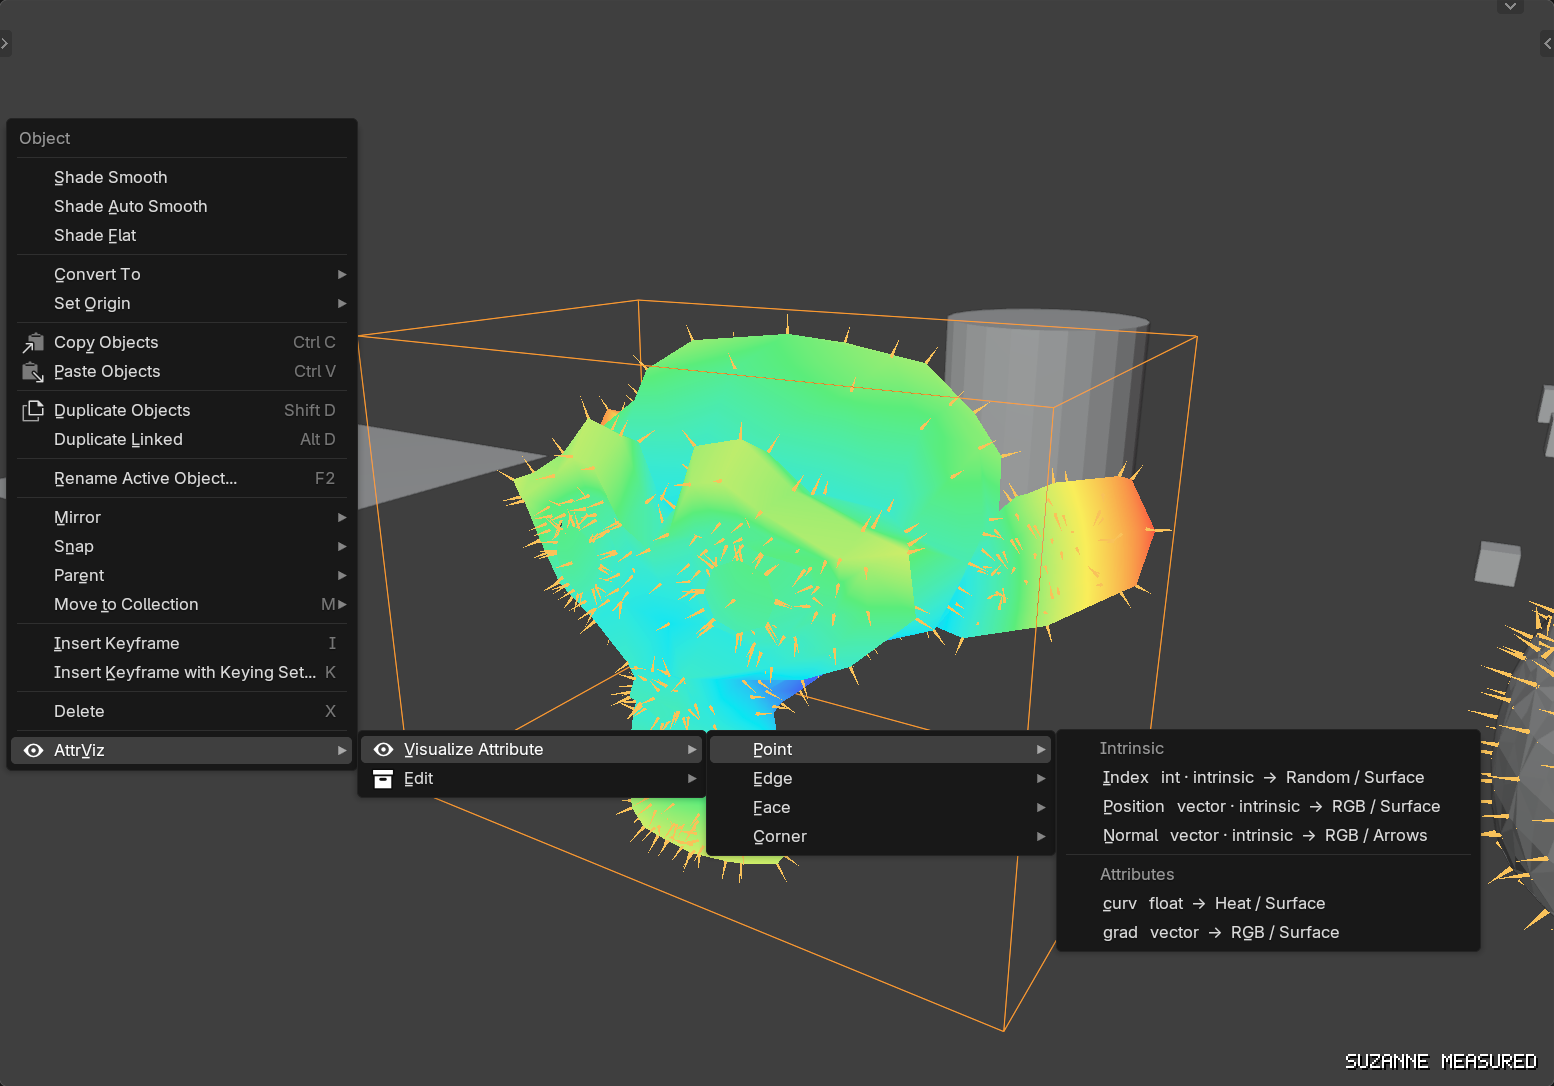
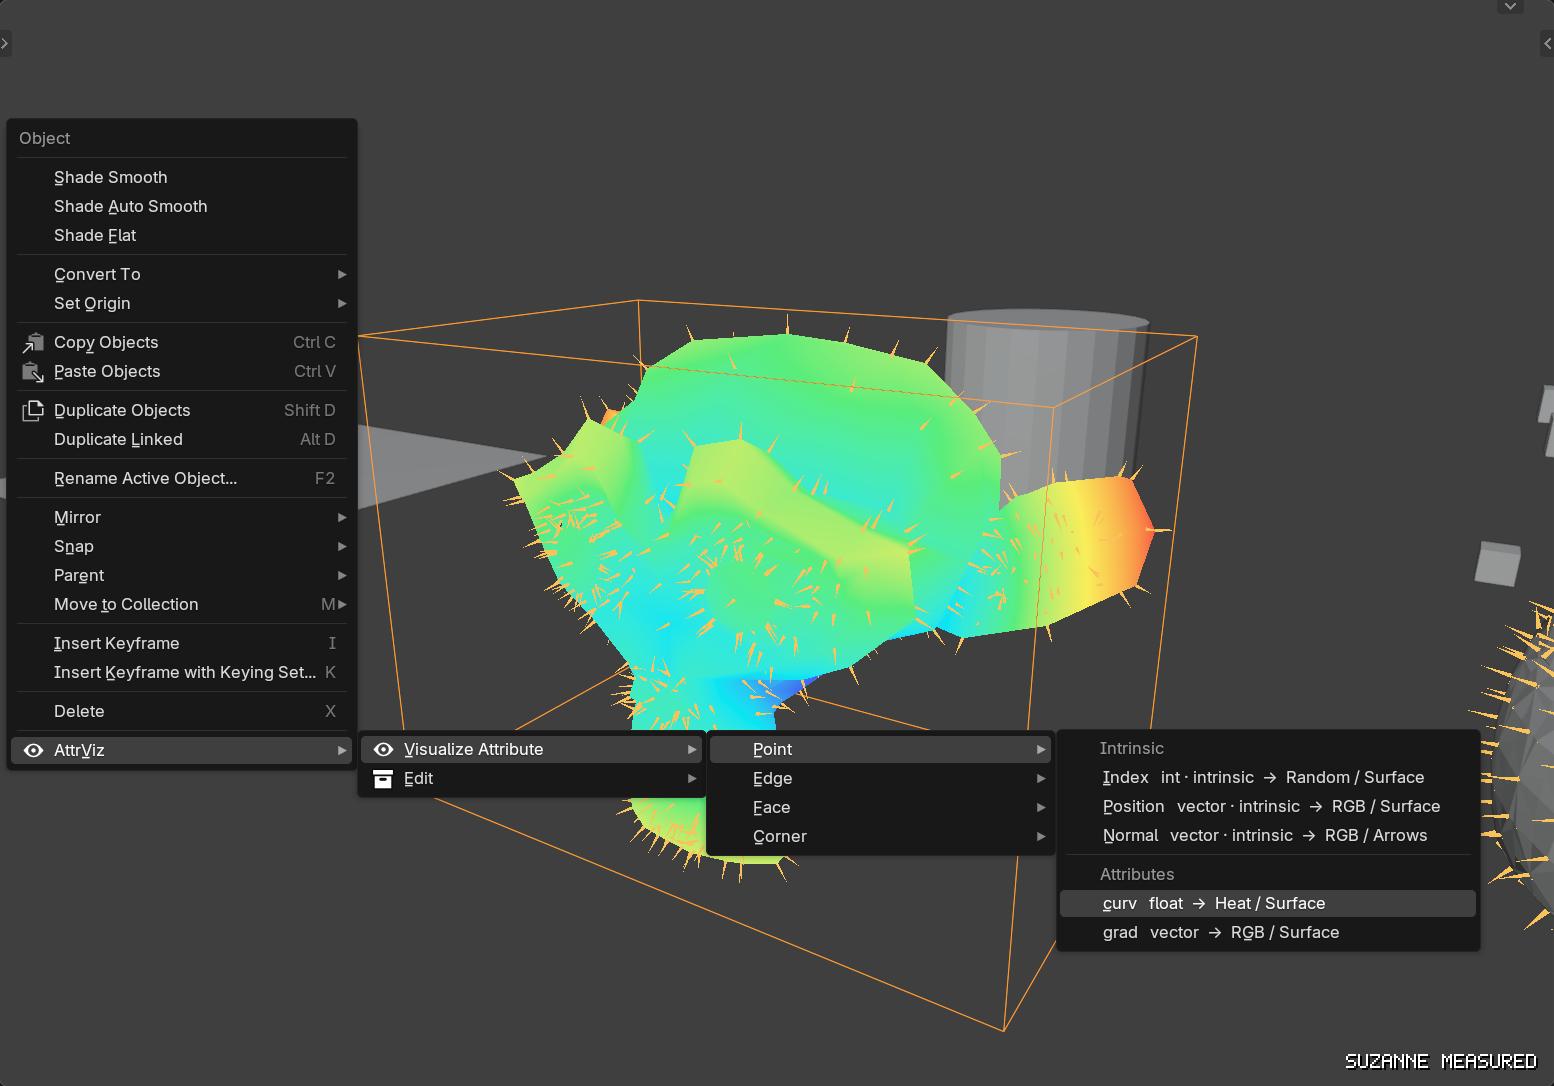
@ feat(015): walk the menu to the attribute, and capture the result
The breadcrumb stopped on the domain category, so it showed the menu
OFFERING attributes and never showed anyone choosing one. It now walks
one rung further, onto `curv` itself.

Two mechanics that needed:

  * rows selected from the BOTTOM. The attribute list is not uniform
    rows — "Intrinsic" and "Attributes" section labels sit between the
    entries — so a top-relative index lands on a header. curv and grad
    are the last two entries, so -2 and -1 stay correct however many
    intrinsics appear above them.
  * a leaf rung needs its own proof. Every other rung is verified by "a
    submenu appeared to the right"; an attribute row opens nothing.
    verify_leaf requires the highlight to move inside that menu own
    rect, otherwise a failed last rung silently reproduces the old
    picture.

Adds viewport_result: the viewport and the sidebar in ONE frame, with
the visualizer the click just created, expanded. Every other figure
shows one surface with the other cropped away, so none of them showed
the tool in use. The pair validates itself — the menu row reads
"curv float -> Heat / Surface" and the panel shows exactly that.

The result shot DELETES the other visualizers rather than disabling
them: a panel listing four greyed-out visualizers in scopes the staging
emptied describes a scene nobody has. And it carries no burnt-in
caption, because the panel states curv - Point - Surface itself.

Guidance and mock updated with the throughline. 18 scenarios, 14 gated,
[…]

Changed region(s): [[0.6795, 0.8204, 0.9575, 0.8508]]

diff --git a/dev_tasks/015_docs_capture/scenarios.py b/dev_tasks/015_docs_capture/scenarios.py
@@ -39,7 +39,7 @@ PANEL_TICKS = {"warmup": 16, "reveal": 17, "shot": 27}
 # difference between "works alone" and "works in a batch".
 HOVER_WARMUP = 44
 WALK_TICKS = {"warmup": HOVER_WARMUP, "open": HOVER_WARMUP + 1,
-              "nudges": (), "shot": HOVER_WARMUP + 72}
+              "nudges": (), "shot": HOVER_WARMUP + 96}
 HOVER_TICKS = {"warmup": HOVER_WARMUP, "open": HOVER_WARMUP + 1,
                "nudges": (), "shot": HOVER_WARMUP + 24}
 # No menu to open; the settle loop decides when the overlay has finished.
@@ -353,6 +353,58 @@ def assert_batch_spread(ctx):
     return {"carriers": carriers, "non_carriers": bare}
 
 
+def stage_result(ctx):
+    """What the click in menu_breadcrumb produced.
+
+    The viewport and the panel in ONE frame: every other figure shows one
+    surface with the other cropped away, so none of them shows the tool
+    actually in use.
+    """
+    import attrviz as av
+    # Region overlap floats the sidebar OVER the viewport, which would leave
+    # Suzanne half-hidden behind it. Off, the two share the area.
+    bpy.context.preferences.system.use_region_overlap = False
+    out = _solo_suzanne()
+    # Delete the other visualizers rather than just disabling them. This shot
+    # is the state right after ONE click, and a panel listing four greyed-out
+    # visualizers in scopes the staging emptied ("0 obj / 1 viz") describes a
+    # scene nobody has.
+    keep = "VIZ_curv_surface"
+    for obj in [o for o in bpy.data.objects
+                if o.name.startswith("VIZ_") and o.name != keep]:
+        bpy.data.objects.remove(obj, do_unlink=True)
+    viz = _viz(keep)
+    viz.attrviz_enabled = True
+    viz.attrviz_style = "Heat"
+    # Expand the one that was just created, so the reader's eye lands on the
+    # row the menu promised.
+    viz.attrviz_ui_expand = True
+    out["kept"] = keep
+    out.update(_unmute("Suzanne_Measured"))
+    with bpy.context.temp_override(window=ctx["window"], area=ctx["area"],
+                                   region=ctx["regions"].get("WINDOW")):
+        av._reveal_viz_panel(bpy.context)
+    ctx["area"].tag_redraw()
+    return out
+
+
+def assert_result(ctx):
+    """The panel must be showing AND the surface must be drawn — a shot with
+    one of the two missing is not the claim being made."""
+    ui = ctx["regions"].get("UI")
+    if ui is None or ui.width <= 1:
+        raise AssertionError("sidebar is not open")
+    if getattr(ui, "active_panel_category", None) != "Viz":
+        raise AssertionError("sidebar is not on the Viz tab")
+    vizzes = [o.name for o in bpy.data.objects if o.name.startswith("VIZ_")]
+    if vizzes != ["VIZ_curv_surface"]:
+        raise AssertionError(f"expected one visualizer, got {vizzes}")
+    if not bpy.data.objects["VIZ_curv_surface"].attrviz_ui_expand:
+        raise AssertionError("the visualizer is collapsed; its settings are "
+                             "the point of the shot")
+    return {"visualizers": vizzes, "ui_width": ui.width}
+
+
 def stage_noop(ctx):
     """A filmstrip's stages do their own staging.
 
@@ -610,7 +662,9 @@ SCENARIOS = [
         "shot": {"kind": "menu", "menu": "VIEW3D_MT_object_context_menu",
                  "cursor": "highleft", "view": HERO_VIEW,
                  "overlays": CLEAN_OVERLAYS, "ticks": WALK_TICKS,
-                 "hover_path": ["last", 0, 0],
+                 # ...and one rung further, onto `curv` itself: -2 is the
+                 # second entry from the bottom, past the section labels.
+                 "hover_path": ["last", 0, 0, -2],
                  "hud": _active_caption()},
         "gated": False,
         "retries": 3,
@@ -753,6 +807,21 @@ SCENARIOS = [
                             ("RANDOM  FACE ID  INT", stage_color_random)]},
         "gated": True,
         "doc": "README - Colour follows the data type",
+    },
+    {
+        # The consequence of the click walked in menu_breadcrumb.
+        "name": "viewport_result",
+        "blend": SCOPE_BLEND,
+        "window": (20, 20, 1600, 1150),
+        "prefs": PANEL_PREFS,
+        "setup": stage_result,
+        "assertions": assert_result,
+        "shot": {"kind": "panel", "ticks": PANEL_TICKS, "view": HERO_VIEW,
+                 "overlays": CLEAN_OVERLAYS, "min_ink_px": 15000},
+        # No burnt-in caption: the panel states curv - Point - Surface itself,
+        # which is better evidence than a caption repeating it.
+        "gated": True,
+        "doc": "README - the result of the click",
     },
     {
         # Not our panel. The contrast is the point.

diff --git a/dev_tasks/015_docs_capture/capture.py b/dev_tasks/015_docs_capture/capture.py
@@ -324,6 +324,26 @@ class Capture:
             bpy.ops.screen.screenshot_area(filepath=path)
         return path
 
+    def verify_leaf(self, probe):
+        """Did the final hover land on the attribute row?
+
+        No submenu opens from a leaf, so the proof is the highlight moving
+        inside that menu's own rect. Without it a failed last rung silently
+        reproduces the old picture — the domain category highlighted, which is
+        exactly the image this rung exists to replace.
+        """
+        base, _sb = load_rgba(self.leaf_baseline)
+        cur, _sc = load_rgba(probe)
+        x0, y0, x1, y1 = self.leaf_rect
+        mask = (np.abs(base[:, :, :3] - cur[:, :, :3]) > 0.02).any(axis=2)
+        inside = mask[y0:y1 + 1, x0:x1 + 1]
+        changed = int(inside.sum())
+        report["leaf_highlight_px"] = changed
+        if changed < 600:
+            raise RuntimeError(
+                f"final hover did not land: only {changed}px changed inside "
+                "the attribute menu, so no row highlighted")
+
     def verify_hover(self, probe):
         """Did the hover actually take?
 
@@ -381,6 +401,13 @@ class Capture:
                 "cursor_warp. Open it lower or use a taller window.")
         if sel == "last":
             img_y = y0 + int(self.pitch * 0.8)
+        elif sel < 0:
+            # Counted from the BOTTOM. The attribute list is not uniform rows —
+            # "Intrinsic" and "Attributes" section labels sit between the
+            # entries, so a top-relative index lands on a header. The real
+            # attributes are always the last entries, so -1 and -2 stay
+            # correct however many intrinsics appear above them.
+            img_y = y0 + int(self.pitch * 0.8) + (abs(sel) - 1) * self.pitch
         else:
             # Rows run downward from the top edge; submenus have no title row.
             img_y = y1 - int((sel + 0.5) * self.pitch)
@@ -391,6 +418,13 @@ class Capture:
         self.ctx["window"].cursor_warp(*target)
         self.walk_prev = cur
         self.walk_right = _x1
+        if index == len(self.shot["hover_path"]) - 1:
+            # The final rung is a LEAF: hovering an attribute opens nothing, so
+            # "a submenu appeared" cannot prove it took. Keep the frame and the
+            # rect so the highlight moving inside this menu can be checked
+            # instead.
+            self.leaf_baseline = cur
+            self.leaf_rect = (x0, y0, _x1, y1)
         report.setdefault("walk", []).append(
             {"step": index, "select": sel, "cursor": list(target),
              "bbox": [x0, y0, _x1, y1]})
@@ -617,6 +651,8 @@ class Capture:
         if self.stable >= SETTLE_NEEDED:
             if self.shot.get("hover") == "last":
                 self.verify_hover(probe)
+            elif getattr(self, "leaf_baseline", None):
+                self.verify_leaf(probe)
             report["settle_polls"] = self.settle_polls
             report["settle_tick"] = t
             # Re-read regions: the UI region only exists once the sidebar has

diff --git a/dev_tasks/015_docs_capture/DOC_GUIDANCE.md b/dev_tasks/015_docs_capture/DOC_GUIDANCE.md
@@ -97,6 +97,43 @@ Consequences for the harness:
 
 ---
 
+## The narrative throughline: the click, then the consequence
+
+The two figures that carry the document are a **pair**, and they must be built
+as one idea:
+
+1. **The click.** The RMB chain walked all the way to the *attribute* —
+   `RMB → AttrViz → Visualize Attribute → Point → curv`, with `curv` itself
+   highlighted. Stopping on the domain category shows the menu *offering*
+   attributes and never shows anyone choosing one. The highlight has to be on
+   the row the user's finger is over.
+2. **The consequence.** The full viewport with the sidebar open on the Viz tab,
+   the surface drawn, and that visualizer listed in the panel.
+
+They validate each other: the menu row reads `curv  float  →  Heat / Surface`,
+so the second image is the menu's own promise, kept. Nothing else in the doc
+does that.
+
+This also closes a gap the earlier figure set had: `panel_scope_tree` is the
+sidebar cropped away from the viewport, and `viewport_hero` is the viewport
+with no panel. **Neither shows the tool in use.**
+
+### Two mechanics this depends on
+
+- **Rows are selected from the bottom, not the top.** The attribute list is not
+  uniform rows — `Intrinsic` and `Attributes` section labels sit between the
+  entries, so a top-relative index lands on a header. `curv` and `grad` are the
+  last two entries, so `-2` and `-1` are stable no matter how many intrinsics
+  or headers appear above them, and they survive the object gaining attributes.
+- **A leaf rung needs its own proof.** Every other rung is verified by "a
+  submenu appeared to the right". The attribute row opens nothing, so that
+  check cannot work on it. The leaf is verified by the highlight moving
+  *within* the attribute menu's own rect. Without that, a failed final hover
+  silently reproduces the old image — the same silent-wrong-picture failure
+  this harness keeps having to design against.
+
+---
+
 ## Format constraints — the deliverable is `README.md`
 
 - **Relative paths to `docs/img/*.png`.** Base64 `data:` URIs are stripped by

diff --git a/dev_tasks/015_docs_capture/README_MOCK.md b/dev_tasks/015_docs_capture/README_MOCK.md
@@ -57,8 +57,14 @@ hand. If you named it `grad`, you'll see `grad`. **If it isn't there, you just
 found your bug.**
 
 > 🖼 **`menu_breadcrumb`** — the full path in one image, left to right: object
-> context menu with AttrViz highlighted → Visualize Attribute → Point → the
-> attribute list with types and defaults. Confirms the three steps above.
+> context menu with AttrViz highlighted → Visualize Attribute → Point → and
+> **`curv` itself highlighted** in the attribute list. The row reads
+> `curv  float  →  Heat / Surface`, which is a promise the next image keeps.
+>
+> 🖼 **`viewport_result`** — what that click produced: the viewport with the
+> Heat surface drawn, and the sidebar open on the Viz tab listing the new
+> visualizer. The first figure in the doc that shows the tool in use rather
+> than one surface of it in isolation.
 
 
 ---
@@ -245,7 +251,8 @@ opening line.
 | Figure | Section | Status |
 |---|---|---|
 | `strip_numbers_to_ink` | banner / The gap | exists |
-| `menu_breadcrumb` | Sixty seconds | exists |
+| `menu_breadcrumb` | Sixty seconds | **deepened to the attribute row** |
+| `viewport_result` | Sixty seconds | **new** — the consequence of the click |
 | `strip_domains` | Domain | **new** |
 | `strip_colors` | Colour | **new** |
 | `tableau_displays` | Type | **re-shot** — Colour pinned to RGB and stated |
